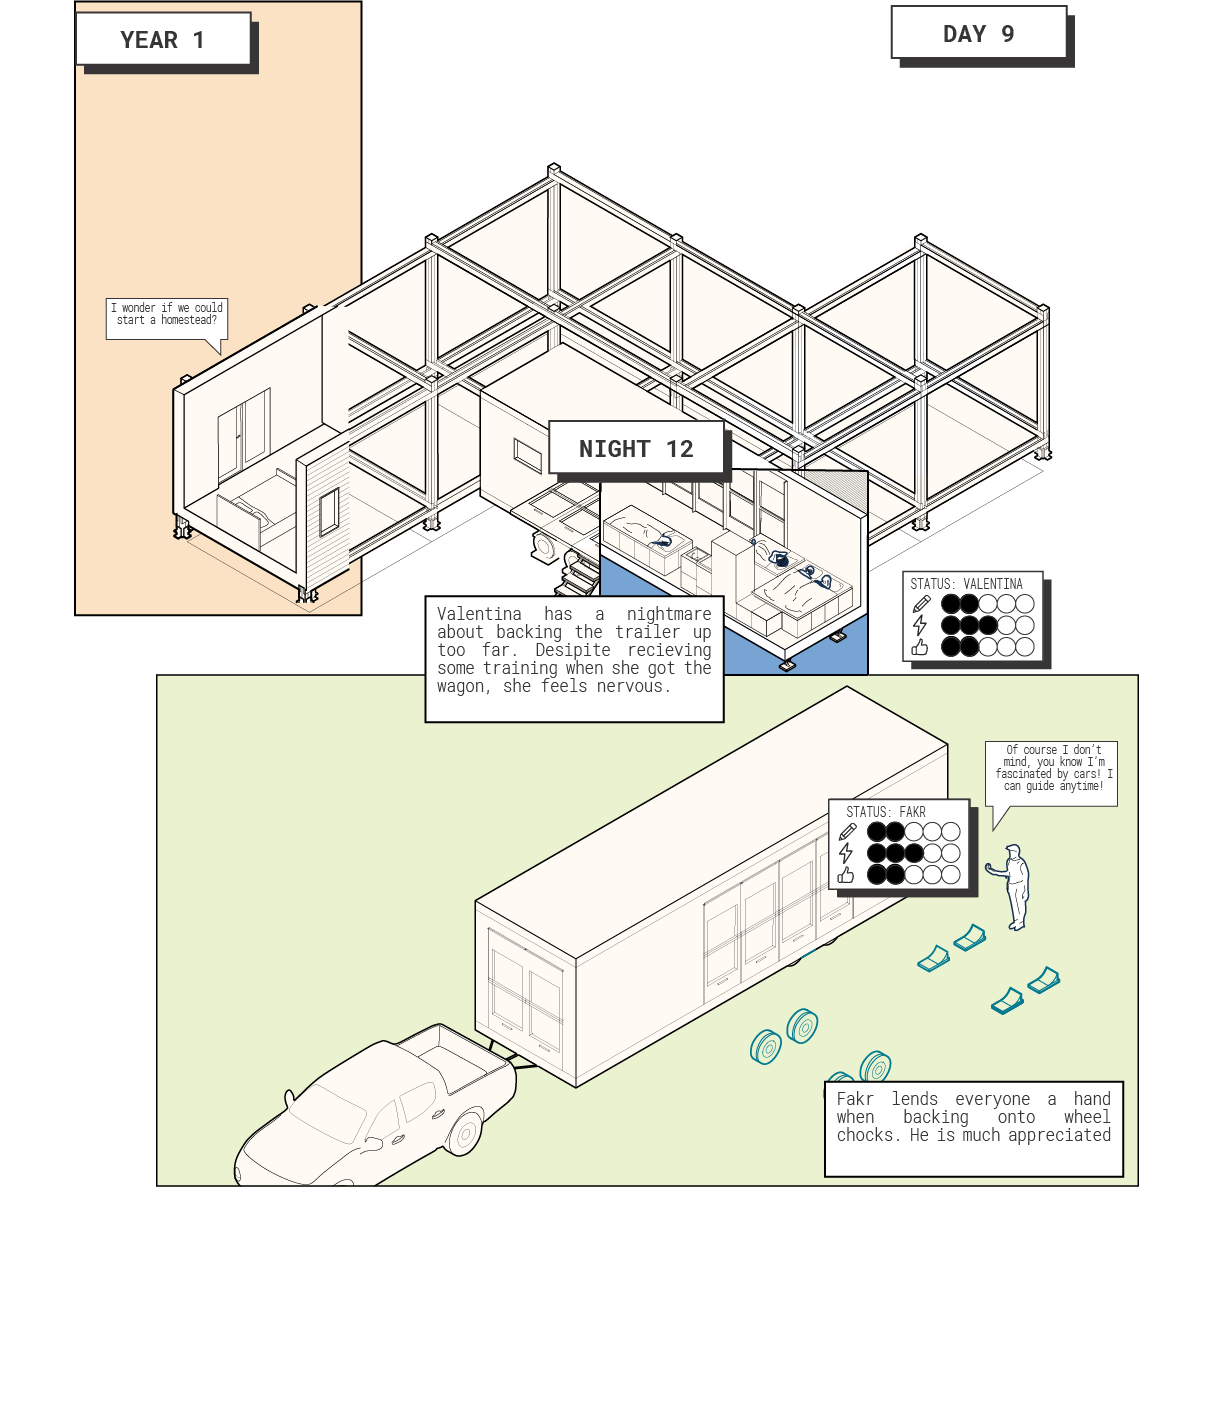
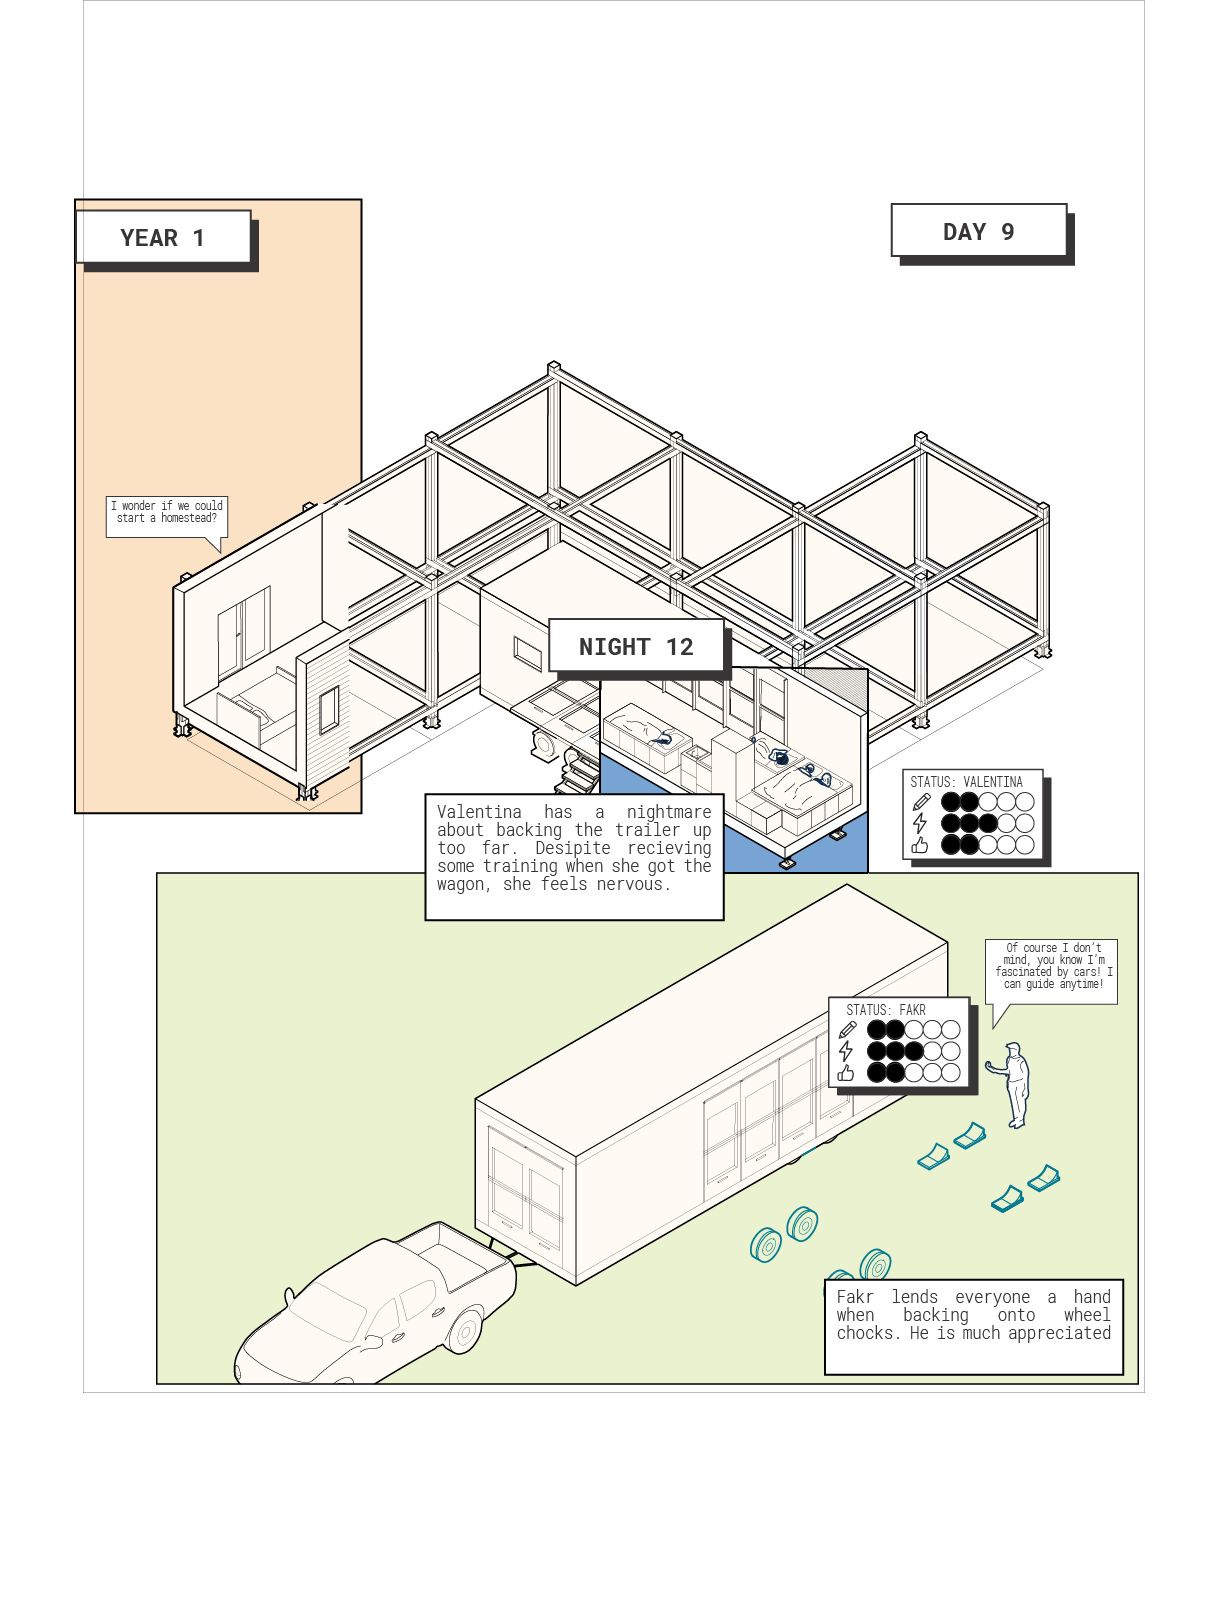
added assets, removed some, edits to project page 1

Changed region(s): [[0.0621, 0.0, 0.9321, 0.8707], [0.7146, 0.0, 0.9011, 0.0622], [0.87, 0.1244, 0.9011, 0.1555]]

diff --git a/project_page.html b/project_page.html
@@ -197,7 +197,7 @@
         <div class="pure-g pricing-table projects-principles-row">
             <div class="pure-u-1 pure-u-md-1-5">
                 <div>
-                    <img src="./assets/projects/the_welcome_wagon/5PS 1_3x.png" alt="" class="pure-img">
+                    <img src="./assets/projects/the_welcome_wagon/5PS 1_2x.png" alt="" class="pure-img">
                 </div>
                 <ol>
                     <li class="project-designs-title">
@@ -207,7 +207,7 @@
             </div>
             <div class="pure-u-1 pure-u-md-1-5">
                 <div>
-                    <img src="./assets/projects/the_welcome_wagon/5PS 2_3x.png" alt="" class="pure-img">
+                    <img src="./assets/projects/the_welcome_wagon/5PS 2_2x.png" alt="" class="pure-img" >
                 </div>
                 <ol start="2">
                     <li class="project-designs-title">
@@ -217,7 +217,7 @@
             </div>
             <div class="pure-u-1 pure-u-md-1-5">
                 <div>
-                    <img src="./assets/projects/the_welcome_wagon/5PS 3_3x.png" alt="" class="pure-img">
+                    <img src="./assets/projects/the_welcome_wagon/5PS 3_2x.png" alt="" class="pure-img">
                 </div>
                 <ol start="3">
                     <li class="project-designs-title">
@@ -227,7 +227,7 @@
             </div>
             <div class="pure-u-1 pure-u-md-1-5">
                 <div>
-                    <img src="./assets/projects/the_welcome_wagon/5PS 4_3x.png" alt="" class="pure-img">
+                    <img src="./assets/projects/the_welcome_wagon/5PS 4_2x.png" alt="" class="pure-img">
                 </div>
                 <ol start="4">
                     <li class="project-designs-title">
@@ -237,7 +237,7 @@
             </div>
             <div class="pure-u-1 pure-u-md-1-5">
                 <div>
-                    <img src="./assets/projects/the_welcome_wagon/5PS 5_3x.png" alt="" class="pure-img">
+                    <img src="./assets/projects/the_welcome_wagon/5PS 5_2x.png" alt="" class="pure-img">
                 </div>
                 <ol start="5">
                     <li class="project-designs-title">
@@ -262,12 +262,14 @@
         </div>
         <div class="pure-u-1 pure-u-md-1-2">
             <div class="pricing-table" style="padding: 0px;">
-                <img src="./assets/projects/the_welcome_wagon/72ppi/kit_of_parts_pg1.png" alt="" class="pure-img">
+                <p class="image-qual"></p>
+                <img src="./assets/projects/the_welcome_wagon/4x/kit_of_parts_pg1_50p4x.png" alt="" class="pure-img">
             </div>
         </div>
         <div class="pure-u-1 pure-u-md-1-2">
             <div class="pricing-table" style="padding: 0px;">
-                <img src="./assets/projects/the_welcome_wagon/72ppi/kit_of_parts_pg2.png" alt="" class="pure-img">
+                <p class="image-qual"></p>
+                <img src="./assets/projects/the_welcome_wagon/4x/kit_of_parts_pg2_50p4x.png" alt="" class="pure-img">
             </div>
         </div>
         <div class="pure-u-1 pure-u-md-1-1">
@@ -297,42 +299,48 @@
 
         <div class="pure-u-1 pure-u-md-1-2">
             <div class="pricing-table" style="padding: 0px;">
-                <img src="./assets/projects/the_welcome_wagon/4x/Cjourney-f014x.png" alt="" class="pure-img">
+                <p class="image-qual"></p>
+                <img src="./assets/projects/the_welcome_wagon/4x/Cjourney-f0150p4x.png" alt="" class="pure-img">
             </div>
         </div>
         <div class="pure-u-1 pure-u-md-1-2">
             <div class="pricing-table" style="padding: 0px;">
-                <img src="./assets/projects/the_welcome_wagon/4x/Cjourney-f024x.png" alt="" class="pure-img">
+                <p class="image-qual"></p>
+                <img src="./assets/projects/the_welcome_wagon/4x/Cjourney-f0250p4x.png" alt="" class="pure-img">
             </div>
         </div>
         <div class="pure-u-1 pure-u-md-1-2">
             <div class="pricing-table" style="padding: 0px;">
-                <img src="./assets/projects/the_welcome_wagon/4x/Cjourney-f034x.png" alt="" class="pure-img">
+                <p class="image-qual"></p>
+                <img src="./assets/projects/the_welcome_wagon/4x/Cjourney-f0350p4x.png" alt="" class="pure-img">
             </div>
         </div>
         <div class="pure-u-1 pure-u-md-1-2">
             <div class="pricing-table" style="padding: 0px;">
-                <img src="./assets/projects/the_welcome_wagon/4x/Cjourney-f044x.png" alt="" class="pure-img">
+                <p class="image-qual"></p>
+                <img src="./assets/projects/the_welcome_wagon/4x/Cjourney-f0450p4x.png" alt="" class="pure-img">
             </div>
         </div>
         <div class="pure-u-1 pure-u-md-1-2">
             <div class="pricing-table" style="padding: 0px;">
-                <img src="./assets/projects/the_welcome_wagon/4x/Cjourney-f054x.png" alt="" class="pure-img">
+                <img src="./assets/projects/the_welcome_wagon/4x/Cjourney-f0550p4x.png" alt="" class="pure-img">
             </div>
         </div>
         <div class="pure-u-1 pure-u-md-1-2">
             <div class="pricing-table" style="padding: 0px;">
-                <img src="./assets/projects/the_welcome_wagon/4x/Cjourney-f064x.png" alt="" class="pure-img">
+                <img src="./assets/projects/the_welcome_wagon/4x/Cjourney-f0650p4x.png" alt="" class="pure-img">
             </div>
         </div>
         <div class="pure-u-1 pure-u-md-1-2">
             <div class="pricing-table" style="padding: 0px;">
-                <img src="./assets/projects/the_welcome_wagon/4x/Cjourney-f074x.png" alt="" class="pure-img">
+                <p class="image-qual"></p>
+                <img src="./assets/projects/the_welcome_wagon/4x/Cjourney-f0750p4x.png" alt="" class="pure-img">
             </div>
         </div>
         <div class="pure-u-1 pure-u-md-1-2">
             <div class="pricing-table" style="padding: 0px;">
-                <img src="./assets/projects/the_welcome_wagon/4x/Cjourney-f084x.png" alt="" class="pure-img">
+                <p class="image-qual"></p>
+                <img src="./assets/projects/the_welcome_wagon/4x/Cjourney-f0850p4x.png" alt="" class="pure-img">
             </div>
         </div>
 
@@ -368,7 +376,7 @@
     <div class="pure-g">
         <div class="pure-u-md-1-1 footer-left">
             <p class= "">Contact me: maria.munir@uwaterloo.ca <br>
-                    check out my LinkedIn, arch portfolio, Resume
+                    Take a look at my:  <a id="project-contact-link" href="https://www.linkedin.com/in/maria-munir/">LinkedIn</a>, <a id="project-contact-link" href="issuu.com/mariamunir/docs/maria-munir-fall-2020-portfolio">Architecture Portfolio</a>, and Resume<a id="project-contact-link" href="issuu.com/mariamunir/docs/maria-munir-fall-2020-portfolio">Resume</a>!
         </p>
         </div>
     </div>

diff --git a/css/main.css b/css/main.css
@@ -223,3 +223,9 @@ body,h1,h2,h3,h4,h5, p {
 .footer-right {
 
 }
+
+.image-qual {
+   image-rendering: pixelated;
+    max-width:200%
+    height: auto
+}
